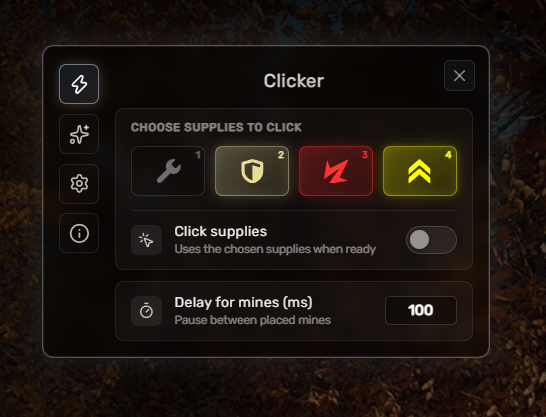
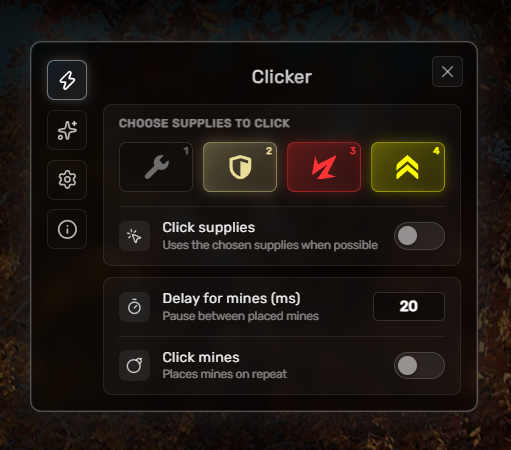
5.0.2+build.27
feat: enhance plugin configuration API

- Introduce pluginConfigApi for managing plugin settings
- Implement resolvePluginConfig for default value handling
- Add tests for reading and writing plugin configuration

diff --git a/tests/unit/clicker/plugins.test.ts b/tests/unit/clicker/plugins.test.ts
@@ -176,6 +176,64 @@ describe('plugin API', () => {
 		});
 	});
 
+	describe('config', () => {
+		it('reads a writable key, falling back to the built-in default when nothing is stored', async () => {
+			const { plugins } = await setup();
+			const plugin = plugins.register({ id: 'test-plugin', apiVersion: 1 })!;
+			expect(plugin.config.get('theme')).toBe('classic');
+			expect(plugin.config.get('mineDelay')).toBe(100);
+			expect(plugin.config.get('clickValues')).toEqual([]);
+		});
+
+		it('writes and reads back a valid value', async () => {
+			const { plugins } = await setup();
+			const plugin = plugins.register({ id: 'test-plugin', apiVersion: 1 })!;
+			expect(plugin.config.set('mineDelay', 500)).toBe(true);
+			expect(plugin.config.get('mineDelay')).toBe(500);
+			expect(plugin.config.set('theme', 'liquid')).toBe(true);
+			expect(plugin.config.get('theme')).toBe('liquid');
+		});
+
+		it('refuses a key the plugin API does not expose', async () => {
+			const { plugins } = await setup();
+			const plugin = plugins.register({ id: 'test-plugin', apiVersion: 1 })!;
+			// @ts-expect-error deliberately not a plugin-writable key
+			expect(plugin.config.set('clickSuppliesState', true)).toBe(false);
+			// @ts-expect-error deliberately not a plugin-writable key
+			expect(plugin.config.get('clickSuppliesState')).toBeUndefined();
+		});
+
+		it('refuses an out-of-range or malformed value without touching storage', async () => {
+			const { plugins } = await setup();
+			const plugin = plugins.register({ id: 'test-plugin', apiVersion: 1 })!;
+			expect(plugin.config.set('mineDelay', -5)).toBe(false);
+			expect(plugin.config.set('mineDelay', 999999)).toBe(false);
+			expect(plugin.config.get('mineDelay')).toBe(100);
+			expect(plugin.config.set('theme', 'not-a-theme')).toBe(false);
+			expect(plugin.config.set('clickValues', [{ key: '1', value: 'on' }])).toBe(true);
+			expect(plugin.config.set('clickValues', [{ key: 'not-a-key', value: 'on' }])).toBe(false);
+		});
+
+		it('lets a language-adding plugin select its own language, and the built-in language() reflects it', async () => {
+			const { plugins } = await setup();
+			const plugin = plugins.register({ id: 'test-plugin', apiVersion: 1 })!;
+			plugin.i18n.addLanguage({ id: 'eo', label: 'EO', name: 'Esperanto' }, { hello: 'saluton' });
+
+			expect(plugin.config.set('language', 'eo')).toBe(true);
+			expect(plugin.config.get('language')).toBe('eo');
+			expect(plugin.features.language()).toBe('eo');
+		});
+
+		it('falls back to the default once the plugin that owned a selected value is gone, without corrupting storage', async () => {
+			const { plugins } = await setup({ language: 'eo' });
+			const plugin = plugins.register({ id: 'test-plugin', apiVersion: 1 })!;
+
+			expect(plugin.config.get('language')).toBe('auto');
+			expect(plugin.features.language()).toBe('auto');
+			expect(JSON.parse(localStorage.getItem('Diaphantium.config') ?? '{}').language).toBe('eo');
+		});
+	});
+
 	describe('storage', () => {
 		it('isolates a plugin\'s storage from the core config and from other plugins', async () => {
 			const { plugins } = await setup();

diff --git a/src/clicker/plugins/config.ts b/src/clicker/plugins/config.ts
@@ -1,0 +1,84 @@
+import { DEFAULT_MINE_DELAY, MAX_MINE_DELAY, MIN_MINE_DELAY } from '../config/config';
+import { getStorage, setStorage, type ClickerConfig } from '../storage/storage';
+import { DEFAULT_THEME, isThemeId } from '../ui/model/theme';
+import { SUPPLY_KEYS } from '../ui/model/supplies';
+import { logger } from '../core/logger';
+import { runtimeLocales } from './registry';
+
+export const PLUGIN_WRITABLE_KEYS = ['language', 'theme', 'clickValues', 'mineDelay'] as const;
+export type PluginWritableKey = typeof PLUGIN_WRITABLE_KEYS[number];
+
+const BUILT_IN_LANGUAGES = ['auto', 'en', 'ru', 'uk'] as const;
+
+function isKnownLanguage(value: unknown): value is string {
+	if (typeof value !== 'string') return false;
+	return (BUILT_IN_LANGUAGES as readonly string[]).includes(value) || runtimeLocales.has(value);
+}
+
+function isClickValues(value: unknown): value is ClickerConfig['clickValues'] {
+	if (!Array.isArray(value)) return false;
+	const keys = SUPPLY_KEYS as readonly string[];
+	return value.every(
+		item =>
+			item !== null &&
+			typeof item === 'object' &&
+			keys.includes((item as { key?: unknown }).key as string) &&
+			((item as { value?: unknown }).value === 'on' || (item as { value?: unknown }).value === 'off'),
+	);
+}
+
+function isMineDelay(value: unknown): value is number {
+	return typeof value === 'number' && Number.isFinite(value) && value >= MIN_MINE_DELAY && value <= MAX_MINE_DELAY;
+}
+
+const DEFAULTS: { [K in PluginWritableKey]: ClickerConfig[K] } = {
+	language: 'auto',
+	theme: DEFAULT_THEME,
+	clickValues: [],
+	mineDelay: DEFAULT_MINE_DELAY,
+};
+
+const VALIDATORS: { [K in PluginWritableKey]: (value: unknown) => boolean } = {
+	language: isKnownLanguage,
+	theme: isThemeId,
+	clickValues: isClickValues,
+	mineDelay: isMineDelay,
+};
+
+export function isPluginWritableKey(key: string): key is PluginWritableKey {
+	return (PLUGIN_WRITABLE_KEYS as readonly string[]).includes(key);
+}
+
+export function resolvePluginConfig<K extends PluginWritableKey>(key: K): ClickerConfig[K] {
+	const stored = getStorage(key);
+	return (VALIDATORS[key](stored) ? stored : DEFAULTS[key]) as ClickerConfig[K];
+}
+
+export interface PluginConfigApi {
+	get<K extends PluginWritableKey>(key: K): ClickerConfig[K];
+	set<K extends PluginWritableKey>(key: K, value: ClickerConfig[K]): boolean;
+}
+
+export function pluginConfigApi(pluginId: string): PluginConfigApi {
+	return {
+		get(key) {
+			if (!isPluginWritableKey(key)) {
+				logger.log(`Plugin "${pluginId}" tried to read config key "${key}", which isn't exposed to plugins`, 'warn');
+				return DEFAULTS[key as PluginWritableKey] as ClickerConfig[typeof key];
+			}
+			return resolvePluginConfig(key);
+		},
+		set(key, value) {
+			if (!isPluginWritableKey(key)) {
+				logger.log(`Plugin "${pluginId}" refused - config key "${key}" isn't writable through the plugin API`, 'warn');
+				return false;
+			}
+			if (!VALIDATORS[key](value)) {
+				logger.log(`Plugin "${pluginId}" refused an invalid value for config "${key}"`, 'warn');
+				return false;
+			}
+			setStorage(key, value);
+			return true;
+		},
+	};
+}

diff --git a/src/clicker/plugins/api.ts b/src/clicker/plugins/api.ts
@@ -2,7 +2,7 @@ import { watch } from 'vue';
 import type Clicker from '../core/Clicker';
 import { logger } from '../core/logger';
 import { featureStates } from '../core/state';
-import { getStorage } from '../storage/storage';
+import { pluginConfigApi, resolvePluginConfig } from './config';
 import { addLanguageOption, addSettingsRow, pluginStorage } from './registry';
 import type { DiaphantiumPluginApi, PluginHandle, PluginManifest, PluginSettingsToggle } from './types';
 
@@ -65,10 +65,10 @@ export function createPluginApi({ clicker, i18n }: Deps): DiaphantiumPluginApi {
 						return () => clicker.clearAction(id, name);
 					},
 					theme() {
-						return getStorage('theme') ?? 'classic';
+						return resolvePluginConfig('theme');
 					},
 					language() {
-						return getStorage('language') ?? 'auto';
+						return resolvePluginConfig('language');
 					},
 				},
 				addSettingsToggle(row: PluginSettingsToggle) {
@@ -95,6 +95,7 @@ export function createPluginApi({ clicker, i18n }: Deps): DiaphantiumPluginApi {
 					},
 				},
 				storage: pluginStorage(id),
+				config: pluginConfigApi(id),
 			};
 
 			return handle;

diff --git a/src/clicker/plugins/types.ts b/src/clicker/plugins/types.ts
@@ -1,4 +1,5 @@
 import type { FeatureName } from '../core/Clicker';
+import type { PluginConfigApi } from './config';
 
 export interface PluginManifest {
 	id: string;
@@ -42,6 +43,7 @@ export interface PluginHandle {
 	addSettingsToggle(row: PluginSettingsToggle): () => void;
 	i18n: PluginI18nApi;
 	storage: PluginStorageApi;
+	config: PluginConfigApi;
 }
 
 export interface DiaphantiumPluginApi {

diff --git a/release/diaphantium.user.js b/release/diaphantium.user.js
@@ -1,7 +1,7 @@
 // ==UserScript==
 
 // @name			Diaphantium
-// @version			5.0.2+build.26
+// @version			5.0.2+build.27
 // @description		The tool created to make your life easier
 // @author			OrakomoRi
 
